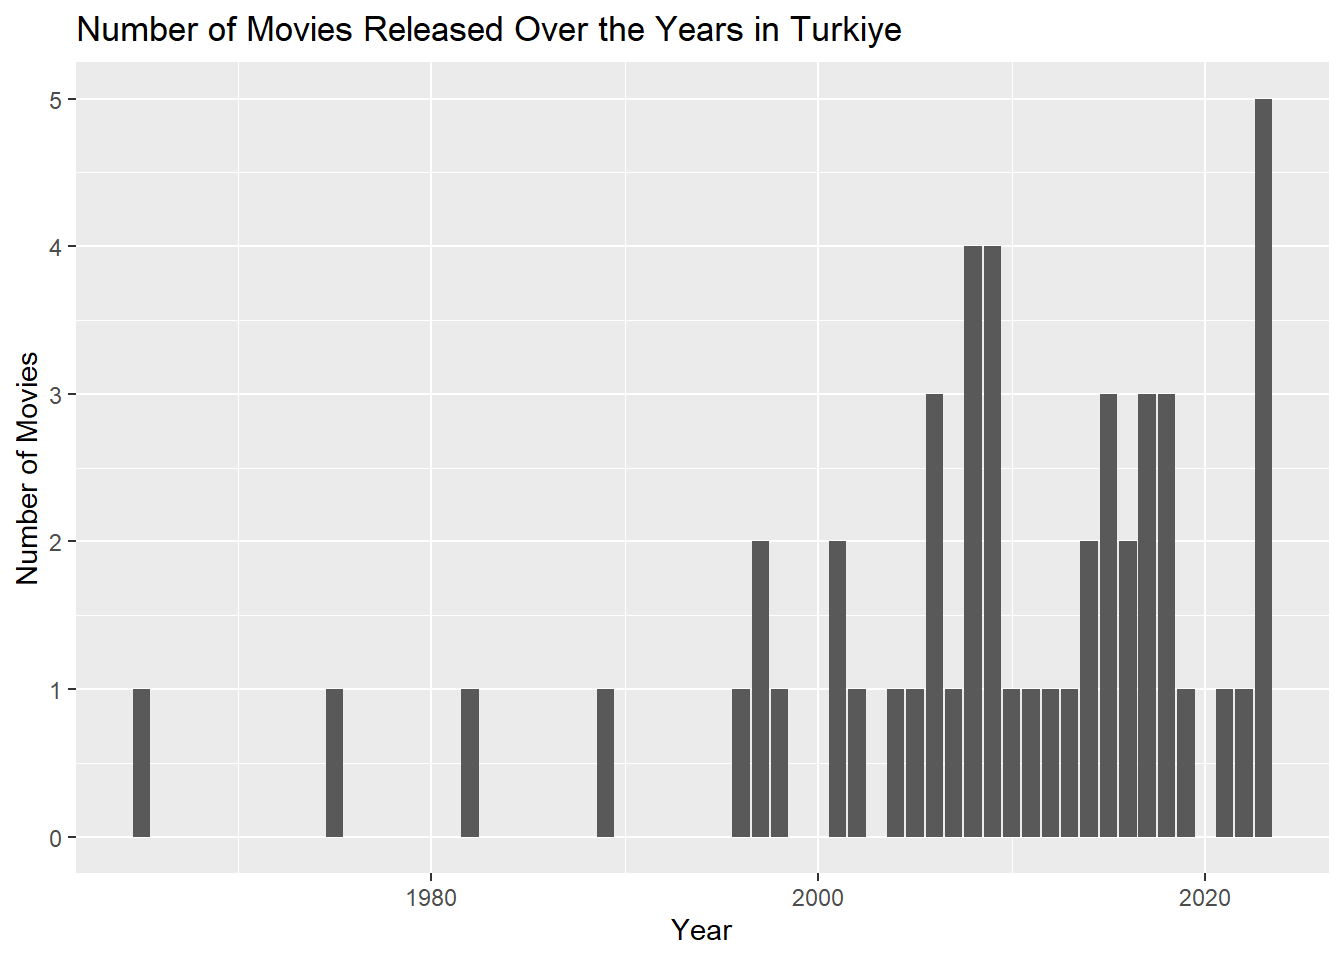
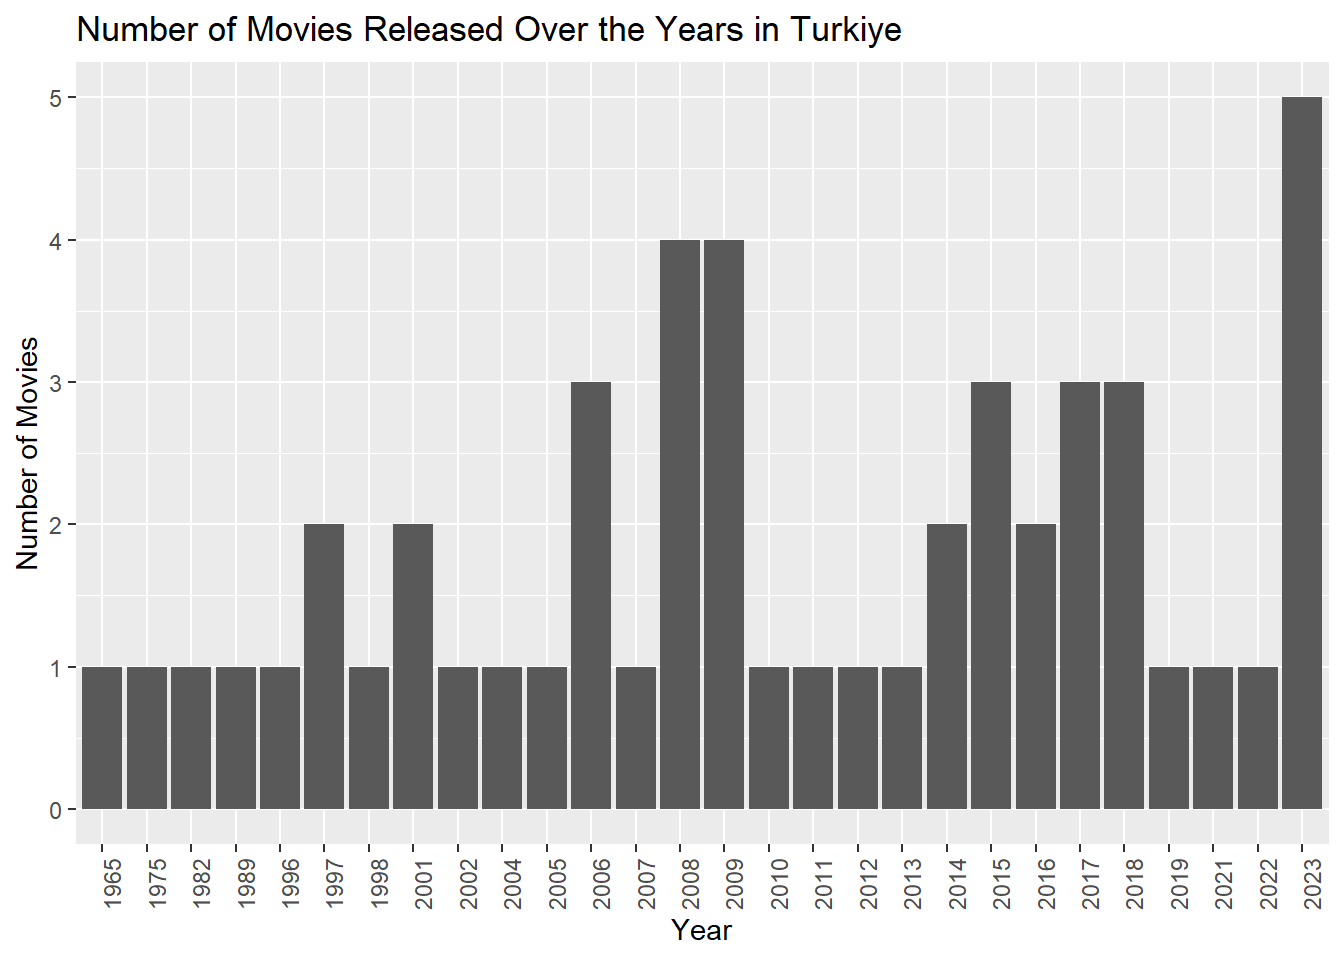
duzeltme
grafikteki factor kısmını silmisim o yuzden tum yillar gozukmuyordu, ayrica kalin yaptigimi sandigim ara basligi italic yapmisim onu duzelttim

diff --git a/docs/assignments/assignment-2.html b/docs/assignments/assignment-2.html
@@ -791,7 +791,7 @@ pre > code.sourceCode > span > a:first-child::before { text-decoration: underlin
 <span id="cb6-2"><a href="#cb6-2" aria-hidden="true" tabindex="-1"></a>bottom_5_movies <span class="ot">&lt;-</span> movies_df <span class="sc">|&gt;</span> <span class="fu">arrange</span>(Rating) <span class="sc">|&gt;</span> <span class="fu">head</span>(<span class="dv">5</span>)</span></code><button title="Copy to Clipboard" class="code-copy-button"><i class="bi"></i></button></pre></div>
 </details>
 </div>
-<p><em>TOP 5 MOVIES</em></p>
+<p><strong>TOP 5 MOVIES</strong></p>
 <div class="cell">
 <details class="code-fold">
 <summary>Code</summary>
@@ -849,7 +849,7 @@ pre > code.sourceCode > span > a:first-child::before { text-decoration: underlin
 </div>
 </div>
 <p>I’ve watched 3 of those movies: Hababam Sinifi, Yedinci Kogustaki Mucize and Ayla. I believe all of those threes deserved high ratings, especially Hababam Sinifi. It has a few generations that really enjoy to watch it. It’s like a legend. For Yedinci Kogustaki Mucize and Ayla, i’d say they were one of the best drama movies i’ve ever watched. I cried a lot while watching them. They touched my heart.</p>
-<p><em>BOTTOM 5 MOVIES</em></p>
+<p><strong>BOTTOM 5 MOVIES</strong></p>
 <div class="cell">
 <details class="code-fold">
 <summary>Code</summary>
@@ -995,9 +995,10 @@ pre > code.sourceCode > span > a:first-child::before { text-decoration: underlin
 <span id="cb12-3"><a href="#cb12-3" aria-hidden="true" tabindex="-1"></a>  <span class="fu">group_by</span>(Year) <span class="sc">|&gt;</span> </span>
 <span id="cb12-4"><a href="#cb12-4" aria-hidden="true" tabindex="-1"></a>  <span class="fu">summarise</span>(<span class="at">Movie_Count =</span> <span class="fu">n</span>())</span>
 <span id="cb12-5"><a href="#cb12-5" aria-hidden="true" tabindex="-1"></a></span>
-<span id="cb12-6"><a href="#cb12-6" aria-hidden="true" tabindex="-1"></a><span class="fu">ggplot</span>(movies_counted, <span class="fu">aes</span>(<span class="at">x =</span> Year, <span class="at">y =</span> Movie_Count)) <span class="sc">+</span></span>
+<span id="cb12-6"><a href="#cb12-6" aria-hidden="true" tabindex="-1"></a><span class="fu">ggplot</span>(movies_counted, <span class="fu">aes</span>(<span class="at">x =</span> <span class="fu">factor</span>(Year), <span class="at">y =</span> Movie_Count)) <span class="sc">+</span></span>
 <span id="cb12-7"><a href="#cb12-7" aria-hidden="true" tabindex="-1"></a>  <span class="fu">geom_bar</span>(<span class="at">stat =</span> <span class="st">"identity"</span>) <span class="sc">+</span></span>
-<span id="cb12-8"><a href="#cb12-8" aria-hidden="true" tabindex="-1"></a>  <span class="fu">labs</span>(<span class="at">title =</span> <span class="st">"Number of Movies Released Over the Years in Turkiye"</span>, <span class="at">x =</span> <span class="st">"Year"</span>, <span class="at">y =</span> <span class="st">"Number of Movies"</span>)</span></code><button title="Copy to Clipboard" class="code-copy-button"><i class="bi"></i></button></pre></div>
+<span id="cb12-8"><a href="#cb12-8" aria-hidden="true" tabindex="-1"></a>  <span class="fu">labs</span>(<span class="at">title =</span> <span class="st">"Number of Movies Released Over the Years in Turkiye"</span>, <span class="at">x =</span> <span class="st">"Year"</span>, <span class="at">y =</span> <span class="st">"Number of Movies"</span>) <span class="sc">+</span></span>
+<span id="cb12-9"><a href="#cb12-9" aria-hidden="true" tabindex="-1"></a>  <span class="fu">theme</span>(<span class="at">axis.text.x =</span> <span class="fu">element_text</span>(<span class="at">angle =</span> <span class="dv">90</span>, <span class="at">hjust =</span> <span class="dv">1</span>))</span></code><button title="Copy to Clipboard" class="code-copy-button"><i class="bi"></i></button></pre></div>
 </details>
 <div class="cell-output-display">
 <div>
